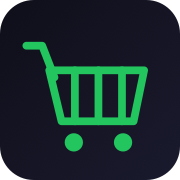
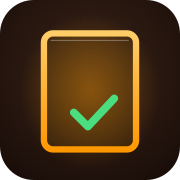
feat: rebranding "Le Frigo" + icône flashy + .gitignore
🎨 Identité visuelle :
- Icône PWA : frigo amber/orange avec halo glow, checkmark vert vif
  (dégradé radial fond chaud, dégradé linéaire frigo, +visibilité)
- Titre home : "Courses Familiales" → "Le Frigo"
- Emoji home : 🛒 → 🍽
- Sous-titre : "Menus · Régimes · Prix optimisés" → "Ce qu'il faut · Pour qui · Où l'acheter"
- Dégradé titre : bleu→violet → amber→orange (cohérence chromatique)
- Police titre montée à 32px (plus impactante)

🏷 Metadata :
- name PWA / title : "Le Frigo"
- short_name (label écran d'accueil iPhone) : "Frigo"
- description : "Menus, courses et livraison pour la famille"
- theme_color : #180c08 (warm dark cohérent avec l'icône)

🧹 Nettoyage :
- Suppression dossier public/preview/ (4 maquettes test)
- Ajout .gitignore (évite commit de .next/node_modules/package-lock.json)

diff --git a/app/page.jsx b/app/page.jsx
@@ -727,11 +727,11 @@ Renvoie UNIQUEMENT un JSON valide sans markdown, format exact : {"liste":[{"prod
       {screen==="home" && (
         <div style={{ padding:"calc(env(safe-area-inset-top, 0px) + 30px) 20px calc(env(safe-area-inset-bottom, 0px) + 20px)", maxWidth:480, margin:"0 auto" }}>
           <div style={{ textAlign:"center", marginBottom:40 }}>
-            <div style={{ fontSize:48, marginBottom:8 }}>🛒</div>
-            <h1 style={{ fontSize:26, fontWeight:"bold", margin:0, background:"linear-gradient(90deg,#3B82F6,#A855F7)", WebkitBackgroundClip:"text", WebkitTextFillColor:"transparent" }}>
-              Courses Familiales
+            <div style={{ fontSize:48, marginBottom:8 }}>🍽</div>
+            <h1 style={{ fontSize:32, fontWeight:"bold", margin:0, background:"linear-gradient(90deg,#FFCD68,#FF9800)", WebkitBackgroundClip:"text", WebkitTextFillColor:"transparent" }}>
+              Le Frigo
             </h1>
-            <p style={{ color:"#888", fontSize:13, marginTop:6 }}>Menus · Régimes · Prix optimisés</p>
+            <p style={{ color:"#888", fontSize:13, marginTop:6 }}>Ce qu'il faut · Pour qui · Où l'acheter</p>
           </div>
           <p style={{ textAlign:"center", color:"#aaa", fontSize:14, marginBottom:24 }}>Choisis ton profil</p>
           {Object.values(PROFILES).map(p => (

diff --git a/app/layout.jsx b/app/layout.jsx
@@ -1,10 +1,10 @@
 export const metadata = {
-  title: "Courses Familiales",
-  description: "Menus & courses adaptés",
+  title: "Le Frigo",
+  description: "Menus, courses et livraison pour la famille",
   manifest: "/manifest.json",
   appleWebApp: {
     capable: true,
-    title: "Courses",
+    title: "Frigo",
     statusBarStyle: "black-translucent"
   },
   icons: {
